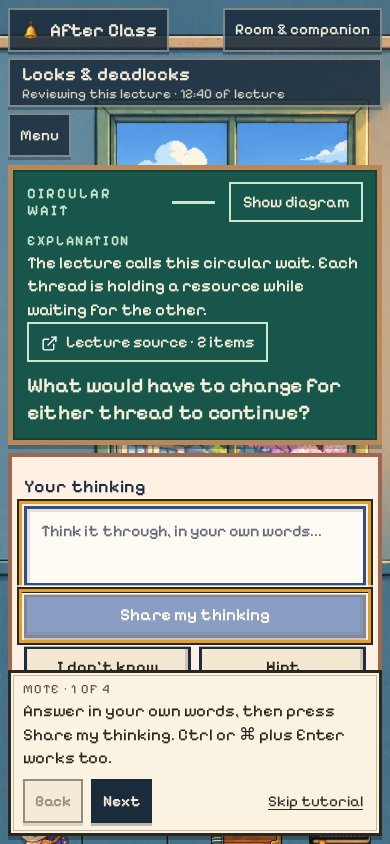
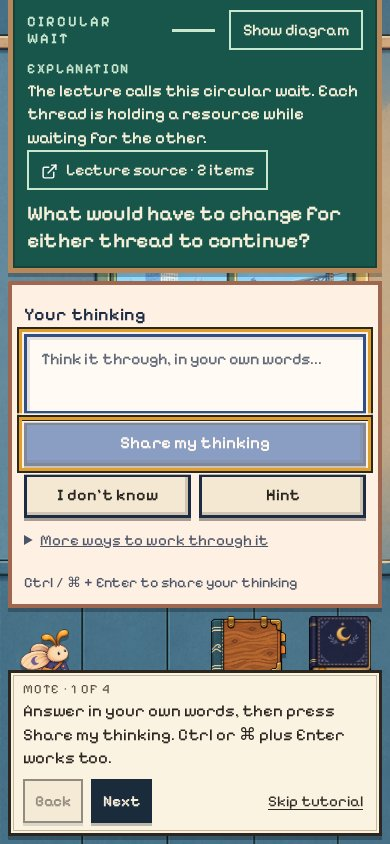
fix(app): keep answer controls above the tutorial bubble on a phone

diff --git a/src/app/tutorial.tsx b/src/app/tutorial.tsx
@@ -152,6 +152,7 @@ const AVOID = [
   ".room-paper > *", '.front-row-area[data-area="board"] .line', '.front-row-area[data-area="board"] .front-row-heading-box', ".setup-choices > *",
 ];
 const POLL_MS = 400;
+const NO_CONTROLS: readonly string[] = [];
 const MARGIN = 16;
 
 const boxOf = (r: DOMRect): Box => ({ left: r.left, top: r.top, width: r.width, height: r.height });
@@ -186,16 +187,23 @@ function useBoxes(selectors: readonly string[]): Box[] {
   return boxes;
 }
 
-/** Brings the ringed controls into view when a step starts, if any is out of view or under the bubble. `inset` is the bottom of the window the bubble takes. */
-function useReveal(selectors: readonly string[], key: string, inset: number): void {
+/** The answer controls. In a review's first-question place, a phone keeps every one of them above the bubble. */
+const ANSWER_CONTROLS = [".composer textarea", ".composer button", ".composer .review-help summary"];
+
+/**
+ * Brings the ringed controls into view when a step starts, if any is out of view or under the bubble. `inset` is the bottom of
+ * the window the bubble takes. `also` lists controls that must clear the bubble even when they are not ringed.
+ */
+function useReveal(selectors: readonly string[], key: string, inset: number, also: readonly string[]): void {
   useEffect(() => {
     const shown = visible(selectors);
     const first = shown[0];
-    const last = shown.at(-1);
-    if (first === undefined || last === undefined) return;
+    if (first === undefined) return;
     if (first.getBoundingClientRect().top < 0) first.scrollIntoView({ block: "start", behavior: "auto" });
-    else if (last.getBoundingClientRect().bottom > window.innerHeight - inset) last.scrollIntoView({ block: "end", behavior: "auto" });
-  }, [selectors, key, inset]);
+    const bottom = Math.max(...[...shown, ...visible(also)].map((e) => e.getBoundingClientRect().bottom));
+    const over = bottom - (window.innerHeight - inset);
+    if (over > 0) window.scrollBy({ top: over, behavior: "auto" });
+  }, [selectors, key, inset, also]);
 }
 
 function CompanionBubble({ view }: { readonly view: View }) {
@@ -236,7 +244,7 @@ function CompanionBubble({ view }: { readonly view: View }) {
   }, [full, height]);
 
   // The page scrolls a ringed control clear of the bubble. This comes after the padding above, which the scroll respects.
-  useReveal(step.target, key, full ? 0 : height + MARGIN);
+  useReveal(step.target, key, full ? 0 : height + MARGIN, view.place === "question" && !full ? ANSWER_CONTROLS : NO_CONTROLS);
 
   // Focus moves to the bubble when a place's tutorial opens and goes back where it was when that tutorial ends.
   const placeKey = view.place;

diff --git a/e2e/tutorial.spec.ts b/e2e/tutorial.spec.ts
@@ -180,3 +180,24 @@ test("the notebook inside a review's Saved notes is not a tutorial place", async
   await page.waitForTimeout(500);
   await expect(bubble).toHaveCount(0);
 });
+
+for (const size of [{ width: 390, height: 844 }, { width: 320, height: 844 }]) {
+  test(`at ${size.width}x${size.height} no answer control is under the bubble on any first-question step`, async ({ page }) => {
+    await page.setViewportSize(size);
+    await page.goto("/?scenario=review&tutorial=1");
+    const bubble = bubbleOf(page);
+    await expect(bubble).toContainText("Answer in your own words");
+    const controls = [
+      page.getByRole("textbox", { name: "Your thinking" }),
+      page.getByRole("button", { name: "Share my thinking" }),
+      page.getByRole("button", { name: "I don't know", exact: true }),
+      page.getByRole("button", { name: "Hint", exact: true }),
+      page.getByText("More ways to work through it"),
+    ];
+    for (let step = 0; step < 4; step++) {
+      await page.waitForTimeout(300);
+      for (const control of controls) expect(await overlap(bubble, control)).toBe(false);
+      if (step < 3) await bubble.getByRole("button", { name: "Next" }).click();
+    }
+  });
+}
